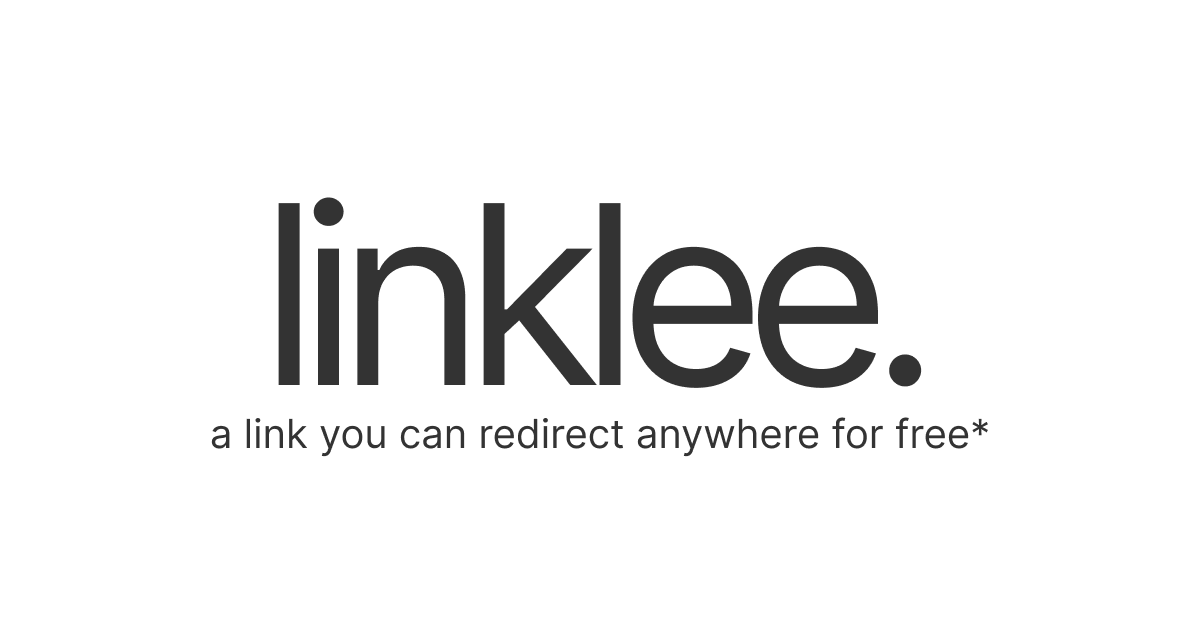
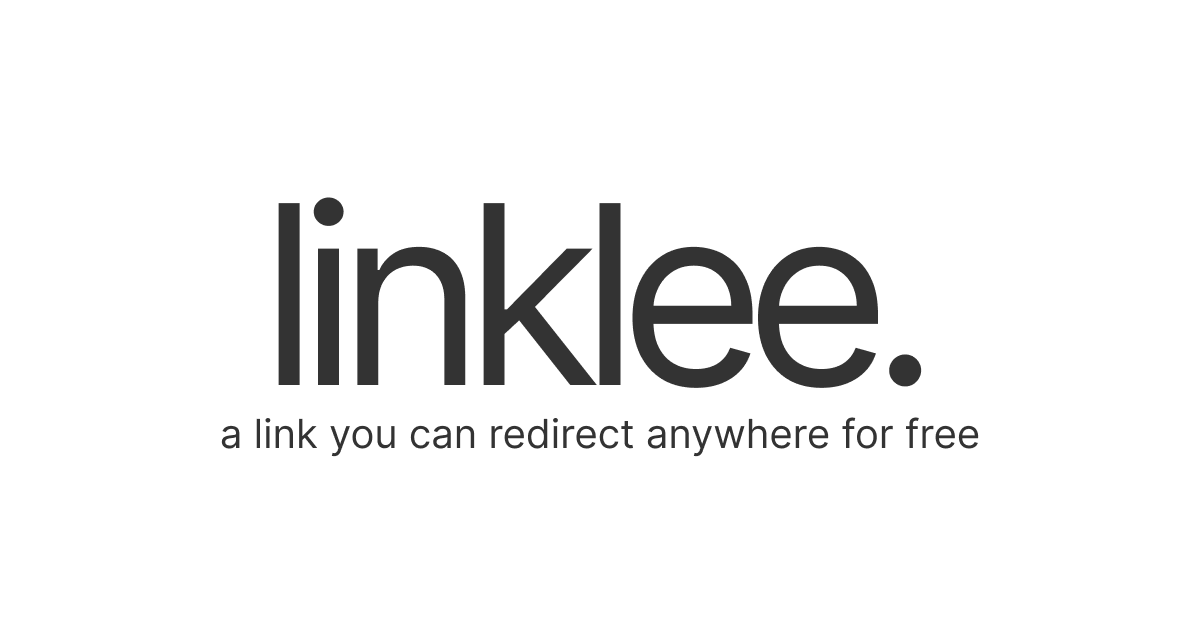
make it free

Changed region(s): [[0.1542, 0.6667, 0.8325, 0.7273]]

diff --git a/components/DomainCard.js b/components/DomainCard.js
@@ -49,7 +49,6 @@ export default function DomainCard({
                     placeholder={placeholderText ? placeholderText : "https://linklee.xyz/longurl"}
                     label="Destination"
                     onTextChange={(text) => setUrl(text)}
-                    bottomText="You can change this 3 times for free."
                     disabled={numberUpdated >= 5}
                 />
                 <Button onClick={buttonAction} className="w-full mt-4">

diff --git a/components/ChangeDomainCard.js b/components/ChangeDomainCard.js
@@ -58,7 +58,6 @@ export default function ChangeDomainCard({
                         placeholder={placeholderText}
                         label="Destination"
                         onTextChange={(text) => setUrl(text)}
-                        bottomText={`${3 - numberUpdated}/3 changes left`}
                         disabled={true}
                     />
                 </div>
